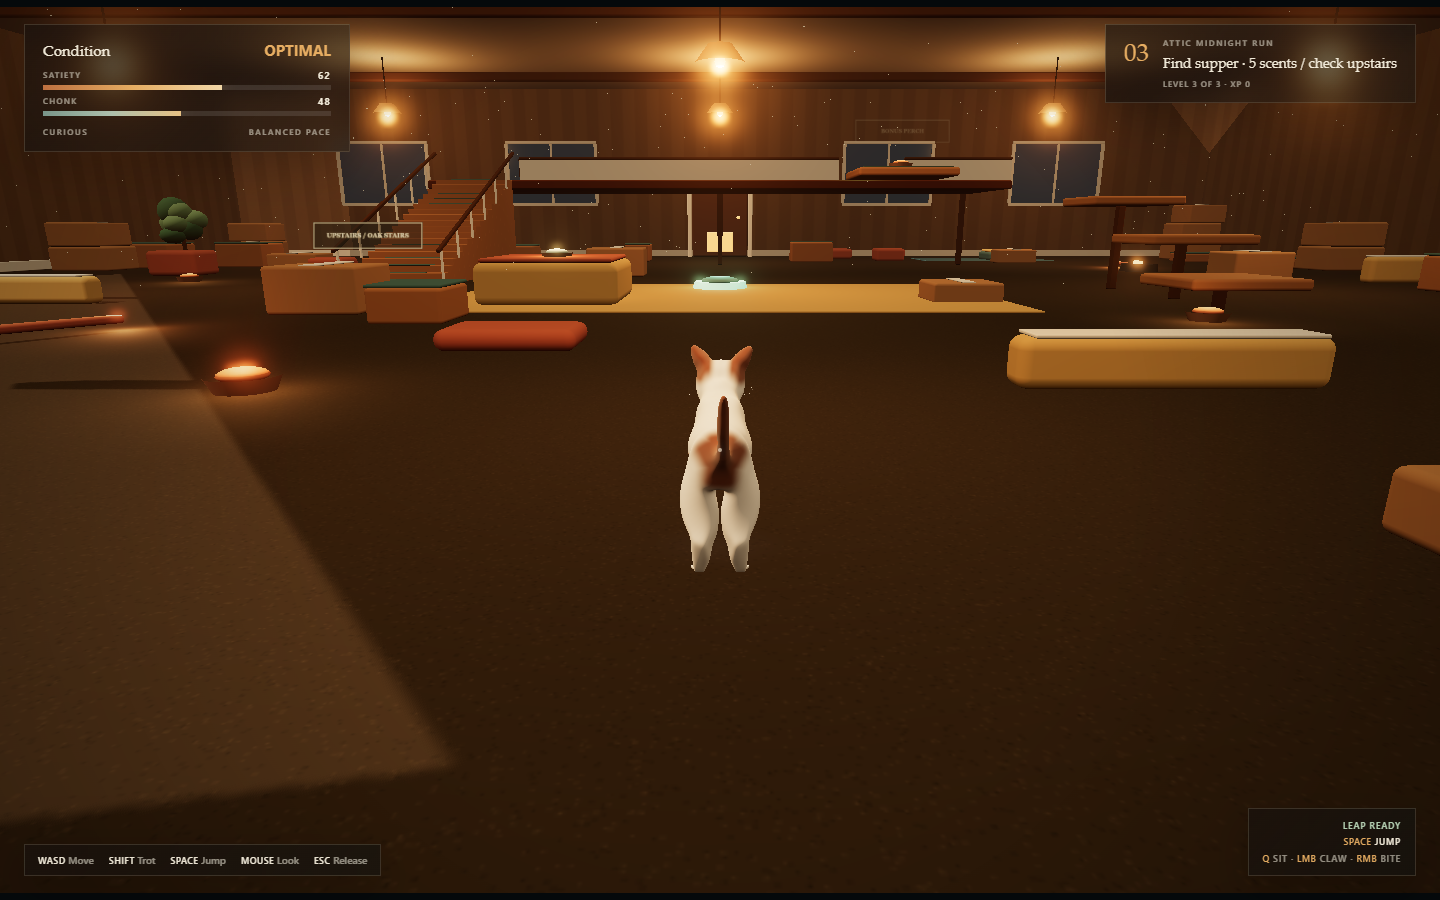
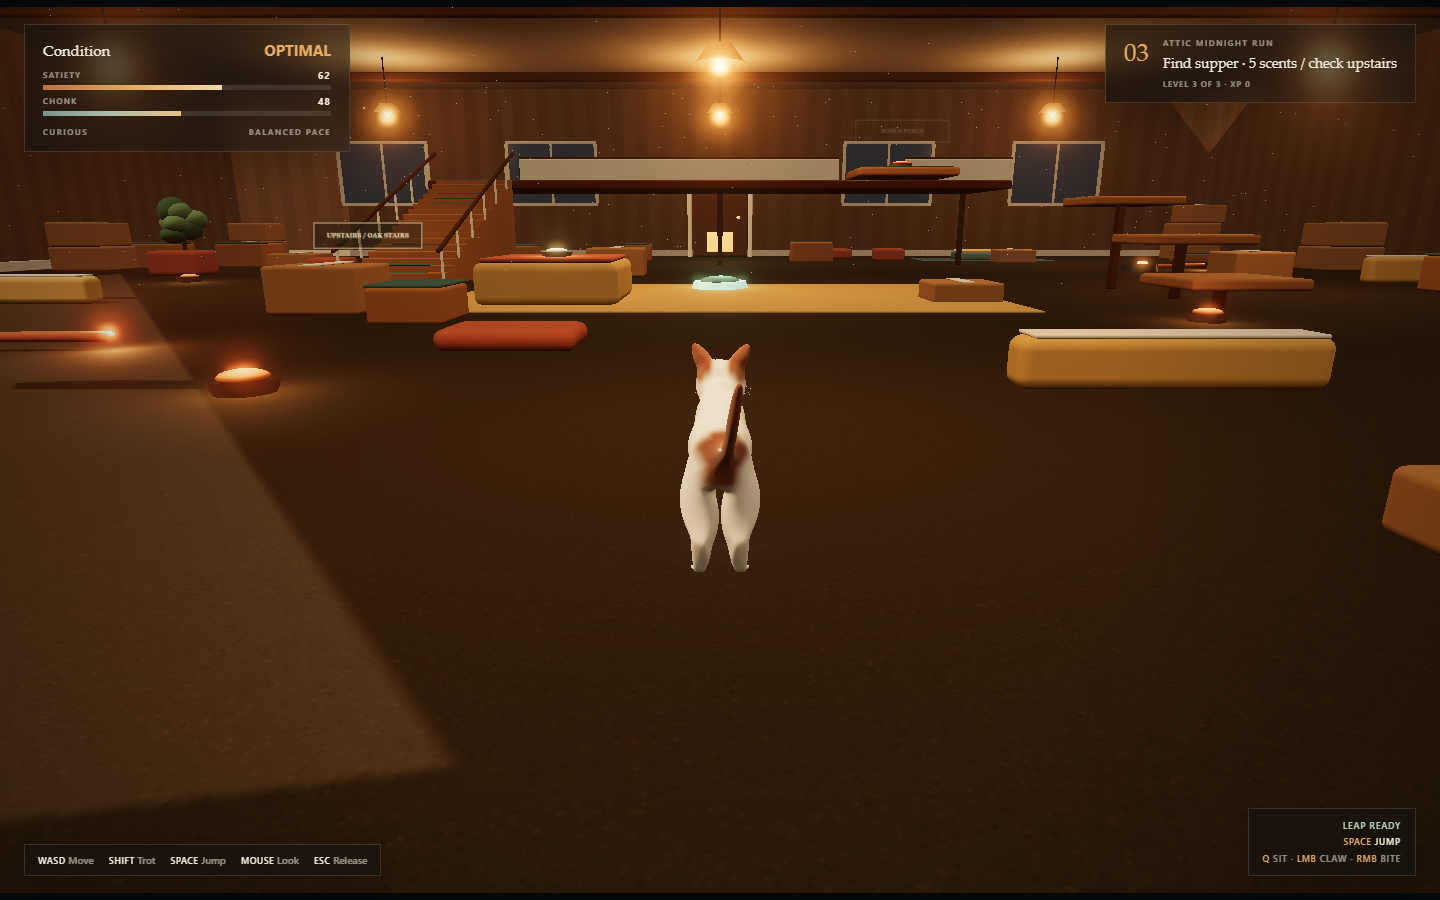
Fix mouse-look spikes and smooth camera collision recovery

diff --git a/tools/camera-controls-test.js b/tools/camera-controls-test.js
@@ -1,0 +1,185 @@
+const { chromium } = require("playwright");
+const { spawn } = require("child_process");
+const path = require("path");
+const assert = require("assert/strict");
+
+(async () => {
+  const root = path.resolve(__dirname, "..");
+  const remote = process.argv[2];
+  const server = remote ? null : spawn("python", ["-m", "http.server", "4179", "--bind", "127.0.0.1"], { cwd: root, stdio: "ignore", windowsHide: true });
+  let browser;
+  const errors = [];
+  try {
+    browser = await chromium.launch({ headless: true, executablePath: "C:\\Program Files (x86)\\Microsoft\\Edge\\Application\\msedge.exe" });
+    const page = await browser.newPage({ viewport: { width: 1440, height: 900 } });
+    page.on("pageerror", (error) => errors.push(error.message));
+    if (server) await new Promise((resolve) => setTimeout(resolve, 500));
+    await page.goto(remote || "http://127.0.0.1:4179", { waitUntil: "networkidle" });
+    await page.waitForFunction(() => window.__megaChonk?.state.ready, null, { timeout: 60000 });
+    const enter = await page.locator("#enter-game").boundingBox();
+    const unitChecks = await page.evaluate(async () => {
+      const { MouseLookController } = await import(new URL("camera-controls.js", location.href).href);
+      const fail = (message) => { throw new Error(message); };
+      const sums = [];
+      for (const fps of [30, 60, 144]) {
+        const look = new MouseLookController();
+        look.setLocked(true, 0);
+        look.addMovement(400, 300, 20);
+        if (look.consume(1 / fps).yaw !== 0) fail("Lock-entry cursor warp was accepted");
+        let yaw = 0;
+        let pitch = 0;
+        for (let frame = 0; frame < fps; frame += 1) {
+          look.addMovement(120 / fps, 30 / fps, 200 + frame * 1000 / fps);
+          const step = look.consume(1 / fps);
+          yaw += step.yaw;
+          pitch += step.pitch;
+          if (Math.abs(step.yaw) > 4.2 / fps + 1e-8) fail("Yaw rate limit exceeded");
+        }
+        for (let frame = 0; frame < fps; frame += 1) {
+          const step = look.consume(1 / fps);
+          yaw += step.yaw;
+          pitch += step.pitch;
+        }
+        if (Math.abs(yaw + 120 * 0.00145) > 1e-7 || Math.abs(pitch - 30 * 0.0011) > 1e-7) fail(`Mouse input depends on FPS: ${fps}`);
+        sums.push({ fps, yaw, pitch });
+      }
+      const look = new MouseLookController();
+      look.setLocked(true, 0);
+      look.addMovement(1, 0, 200);
+      for (const [x, y] of [[NaN, 0], [Infinity, 1], [1, -Infinity], [12000, -9000]]) look.addMovement(x, y, 201);
+      if (look.consume(1 / 60).yaw !== 0 || look.rejectedSamples !== 4) fail("Invalid mouse input was not rejected");
+      let burstYaw = 0;
+      for (let frame = 0; frame < 60; frame += 1) {
+        if (frame < 20) for (let event = 0; event < 1000; event += 1) look.addMovement(2, 1, 300 + frame * 16.67);
+        const step = look.consume(1 / 60);
+        if (Math.abs(step.yaw) > 4.2 / 60 + 1e-8 || Math.abs(step.pitch) > 2.4 / 60 + 1e-8) fail("Burst input exceeded turn-rate limits");
+        burstYaw += step.yaw;
+      }
+      if (Math.abs(look.consume(1 / 60).yaw) > 1e-7) fail("A mouse-input backlog continued spinning after release");
+      look.addMovement(30, 20, 2000);
+      look.setLocked(false, 2001);
+      if (look.consume(1 / 60).yaw !== 0) fail("Unlock did not clear queued input");
+      look.setLocked(true, 3000);
+      look.addMovement(200, 200, 3101);
+      if (look.consume(1 / 60).yaw !== 0) fail("Relock accepted the first cursor-warp sample");
+      return { frameRates: sums, invalidSamples: 4, burstYaw };
+    });
+    await page.click("#enter-game");
+    await page.waitForFunction(() => document.pointerLockElement?.id === "game" && !window.__megaChonk.state.transitioning);
+    const spike = await page.evaluate(() => {
+      const { state } = window.__megaChonk;
+      const before = state.yaw;
+      document.dispatchEvent(new MouseEvent("mousemove", { movementX: 12000, movementY: -9000 }));
+      return { before, after: state.yaw, pitch: state.pitch };
+    });
+    await page.waitForTimeout(300);
+    const afterSpike = await page.evaluate(() => window.__megaChonk.state.yaw);
+    assert.ok(Math.abs(afterSpike - spike.before) < 0.01, "An invalid mouse delta violently rotates the camera");
+
+    const dispatch = (x, y) => page.evaluate(({ x, y }) => {
+      document.dispatchEvent(new MouseEvent("mousemove", { movementX: x, movementY: y }));
+    }, { x, y });
+    await dispatch(1, 0);
+    await page.waitForTimeout(150);
+    const smallBefore = await page.evaluate(() => window.__megaChonk.cameraSnapshot());
+    await dispatch(4, 2);
+    await page.waitForTimeout(300);
+    const smallAfter = await page.evaluate(() => window.__megaChonk.cameraSnapshot());
+    assert.ok(Math.abs(smallAfter.yaw - smallBefore.yaw + 0.0058) < 0.0002, "Small horizontal mouse motion is lost or amplified");
+    assert.ok(Math.abs(smallAfter.pitch - smallBefore.pitch - 0.0022) < 0.0002, "Small vertical mouse motion is lost or amplified");
+
+    await page.mouse.move(enter.x + enter.width / 2 + 4, enter.y + enter.height / 2 + 2, { steps: 4 });
+    await page.waitForTimeout(300);
+    const native = await page.evaluate(() => window.__megaChonk.cameraSnapshot());
+    assert.ok(Math.abs(native.yaw - smallAfter.yaw) > 0.0001 && Math.abs(native.yaw - smallAfter.yaw) < 0.03, "Native pointer-locked mouse motion is not small and responsive");
+
+    const burst = await page.evaluate(async () => {
+      const game = window.__megaChonk;
+      const before = game.cameraSnapshot();
+      for (let event = 0; event < 1000; event += 1) document.dispatchEvent(new MouseEvent("mousemove", { movementX: 2, movementY: 1 }));
+      const frames = [before];
+      for (let frame = 0; frame < 30; frame += 1) {
+        await new Promise(requestAnimationFrame);
+        frames.push(game.cameraSnapshot());
+      }
+      return { totalYaw: frames.at(-1).yaw - before.yaw, maxStep: Math.max(...frames.slice(1).map((sample, index) => Math.abs(sample.yaw - frames[index].yaw))), tail: Math.abs(frames.at(-1).yaw - frames.at(-6).yaw) };
+    });
+    assert.ok(burst.maxStep <= 4.2 * 0.033 + 0.001 && Math.abs(burst.totalYaw) < 0.15 && burst.tail < 0.0001, "Event bursts cause a jump or leave queued camera spin");
+
+    const beforeBlur = await page.evaluate(() => {
+      const before = window.__megaChonk.state.yaw;
+      document.dispatchEvent(new MouseEvent("mousemove", { movementX: 30, movementY: 20 }));
+      window.dispatchEvent(new Event("blur"));
+      document.dispatchEvent(new MouseEvent("mousemove", { movementX: 100, movementY: 100 }));
+      return before;
+    });
+    await page.waitForTimeout(200);
+    assert.equal(await page.evaluate(() => window.__megaChonk.state.yaw), beforeBlur, "Blur leaves queued mouse motion or accepts background input");
+    await page.evaluate(() => {
+      window.dispatchEvent(new Event("focus"));
+      document.dispatchEvent(new MouseEvent("mousemove", { movementX: 400, movementY: 300 }));
+    });
+    await page.waitForTimeout(200);
+    assert.equal(await page.evaluate(() => window.__megaChonk.state.yaw), beforeBlur, "Focus recovery accepts a cursor warp");
+    await dispatch(4, 2);
+    await page.waitForTimeout(250);
+    assert.ok(Math.abs(await page.evaluate(() => window.__megaChonk.state.yaw) - beforeBlur + 0.0058) < 0.0002, "Mouse look fails to resume after focus recovery");
+
+    await page.evaluate(() => document.exitPointerLock());
+    await page.waitForFunction(() => document.pointerLockElement === null);
+    await page.waitForTimeout(150);
+    const unlocked = await page.evaluate(() => window.__megaChonk.state.yaw);
+    await dispatch(250, 100);
+    await page.waitForTimeout(150);
+    assert.equal(await page.evaluate(() => window.__megaChonk.state.yaw), unlocked, "Unlocked mouse movement rotates the camera");
+    for (let cycle = 0; cycle < 3; cycle += 1) {
+      await page.evaluate(() => document.addEventListener("pointerlockchange", () => {
+        if (document.pointerLockElement) document.dispatchEvent(new MouseEvent("mousemove", { movementX: 400, movementY: -300 }));
+      }, { once: true }));
+      await page.click("#game", { position: { x: 720, y: 450 } });
+      await page.waitForFunction(() => document.pointerLockElement?.id === "game");
+      await page.waitForTimeout(250);
+      assert.equal(await page.evaluate(() => window.__megaChonk.state.yaw), unlocked, "Capturing the mouse jumps to a different heading");
+      await page.evaluate(() => document.exitPointerLock());
+      await page.waitForFunction(() => document.pointerLockElement === null);
+    }
+
+    const collision = await page.evaluate(async () => {
+      const game = window.__megaChonk;
+      game.state.started = false;
+      game.regenerate(424242);
+      game.loadLevel(0);
+      game.character.root.position.set(-15.1, 0, 3.8);
+      game.state.pitch = 0.08;
+      const samples = [];
+      for (let index = 0; index <= 80; index += 1) {
+        game.state.yaw = -1.2 + index * 0.02;
+        await new Promise(requestAnimationFrame);
+        samples.push(game.cameraSnapshot());
+      }
+      let pair;
+      for (let index = 1; index < samples.length; index += 1) {
+        const a = samples[index - 1];
+        const b = samples[index];
+        if (Math.abs(a.desiredDistance - b.desiredDistance) > 0.6) { pair = a.desiredDistance < b.desiredDistance ? [a, b] : [b, a]; break; }
+      }
+      if (!pair) throw new Error("Collision test did not cross a furniture corner");
+      game.state.yaw = pair[0].yaw;
+      for (let frame = 0; frame < 60; frame += 1) await new Promise(requestAnimationFrame);
+      const distances = [game.cameraSnapshot().distance];
+      game.state.yaw = pair[1].yaw;
+      for (let frame = 0; frame < 60; frame += 1) {
+        await new Promise(requestAnimationFrame);
+        distances.push(game.cameraSnapshot().distance);
+      }
+      return { orbitChange: Math.abs(pair[1].yaw - pair[0].yaw), obstructionDistance: pair[0].desiredDistance, clearDistance: pair[1].desiredDistance, maxOutwardStep: Math.max(...distances.slice(1).map((distance, index) => distance - distances[index])), finalDistance: distances.at(-1) };
+    });
+    assert.ok(collision.maxOutwardStep < 0.33 && collision.finalDistance > collision.clearDistance - 0.15, "Camera snaps outward at a furniture corner or fails to recover");
+    console.log(JSON.stringify({ url: page.url(), unitChecks, spike, smallMotion: { yaw: smallAfter.yaw - smallBefore.yaw, pitch: smallAfter.pitch - smallBefore.pitch }, nativeMouseDelta: native.yaw - smallAfter.yaw, burst, focusRecovery: true, pointerLockCycles: 3, collision, errors }, null, 2));
+    assert.deepEqual(errors, []);
+    console.log("Camera controls passed");
+  } finally {
+    if (browser) await browser.close();
+    server?.kill();
+  }
+})().catch((error) => { console.error(error); process.exitCode = 1; });

diff --git a/game.js b/game.js
@@ -6,6 +6,7 @@ import { RenderPass } from "three/addons/postprocessing/RenderPass.js";
 import { UnrealBloomPass } from "three/addons/postprocessing/UnrealBloomPass.js";
 import { OutputPass } from "three/addons/postprocessing/OutputPass.js";
 import { footprint, generateCourse } from "./course-generator.js";
+import { MouseLookController } from "./camera-controls.js";
 
 const CAT_SCALE = 0.84;
 const CAT_BODY_HEIGHT = 0.76;
@@ -64,6 +65,8 @@ composer.addPass(new OutputPass());
 
 const clock = new THREE.Clock();
 const keys = new Set();
+const mouseLook = new MouseLookController();
+const cameraRig = { distance: null, desiredDistance: 3.35, obstructed: false };
 const colliders = [];
 const surfaces = [];
 const cameraOccluders = [];
@@ -1586,10 +1589,14 @@ function updateCamera(delta) {
   raycaster.set(temp.cameraTarget, temp.rayDirection);
   raycaster.far = desiredDistance;
   const hits = raycaster.intersectObjects(cameraOccluders, false);
-  if (hits.length) {
-    const safeDistance = Math.max(1.25, hits[0].distance - 0.24);
-    temp.cameraDesired.copy(temp.cameraTarget).addScaledVector(temp.rayDirection, safeDistance);
-  }
+  const safeDistance = hits.length ? Math.min(desiredDistance, Math.max(0.35, hits[0].distance - 0.24)) : desiredDistance;
+  cameraRig.desiredDistance = safeDistance;
+  cameraRig.obstructed = hits.length > 0;
+  const currentDistance = cameraRig.distance ?? safeDistance;
+  // Pull in promptly at walls, but ease back out when a corner clears the ray.
+  const response = safeDistance < currentDistance ? 18 : 3.5;
+  cameraRig.distance = THREE.MathUtils.damp(currentDistance, safeDistance, response, delta);
+  temp.cameraDesired.copy(temp.cameraTarget).addScaledVector(temp.rayDirection, cameraRig.distance);
 
   camera.position.lerp(temp.cameraDesired, 1 - Math.exp(-9.5 * delta));
   camera.lookAt(temp.cameraTarget);
@@ -1686,6 +1693,9 @@ function updateToast(delta) {
 function animate() {
   const delta = Math.min(clock.getDelta(), 0.033);
   const elapsed = clock.elapsedTime;
+  const look = mouseLook.consume(delta);
+  state.yaw += look.yaw;
+  state.pitch = THREE.MathUtils.clamp(state.pitch + look.pitch, 0.08, 0.62);
   let speed = 0;
   updateMovingPlatforms(elapsed);
   if (state.started) {
@@ -1716,16 +1726,25 @@ function setupInput() {
     if (["KeyW", "KeyA", "KeyS", "KeyD", "ArrowUp", "ArrowDown", "ArrowLeft", "ArrowRight", "Space"].includes(event.code)) event.preventDefault();
   });
   addEventListener("keyup", (event) => keys.delete(event.code));
-  addEventListener("blur", () => keys.clear());
+  addEventListener("blur", () => {
+    keys.clear();
+    mouseLook.setLocked(false);
+  });
+  const syncMouseLook = () => mouseLook.setLocked(document.pointerLockElement === canvas && document.hasFocus() && !document.hidden);
+  addEventListener("focus", syncMouseLook);
+  document.addEventListener("visibilitychange", () => {
+    if (document.hidden) keys.clear();
+    syncMouseLook();
+  });
 
   document.addEventListener("pointerlockchange", () => {
     state.pointerLocked = document.pointerLockElement === canvas;
+    syncMouseLook();
     if (state.started) ui.prompt.textContent = state.pointerLocked ? "" : "CLICK TO RESUME CAMERA";
   });
   document.addEventListener("mousemove", (event) => {
-    if (!state.pointerLocked) return;
-    state.yaw -= event.movementX * 0.00235;
-    state.pitch = THREE.MathUtils.clamp(state.pitch + event.movementY * 0.00175, 0.08, 0.62);
+    if (!state.started || !state.pointerLocked) return;
+    mouseLook.addMovement(event.movementX, event.movementY);
   });
   canvas.addEventListener("click", () => {
     if (state.started && document.pointerLockElement !== canvas) canvas.requestPointerLock?.();
@@ -1773,6 +1792,17 @@ addEventListener("resize", resize);
 window.__megaChonk = {
   state,
   character,
+  cameraSnapshot: () => ({
+    position: camera.position.toArray(),
+    target: temp.cameraTarget.toArray(),
+    quaternion: camera.quaternion.toArray(),
+    yaw: state.yaw,
+    pitch: state.pitch,
+    distance: cameraRig.distance,
+    desiredDistance: cameraRig.desiredDistance,
+    obstructed: cameraRig.obstructed,
+    rejectedMouseSamples: mouseLook.rejectedSamples,
+  }),
   start: () => ui.enter.click(),
   aimAt: (x, z) => {
     const dx = x - character.root.position.x;

diff --git a/camera-controls.js b/camera-controls.js
@@ -1,0 +1,53 @@
+const clamp = (value, minimum, maximum) => Math.max(minimum, Math.min(maximum, value));
+
+export class MouseLookController {
+  constructor() {
+    this.locked = false;
+    this.ignoreUntil = 0;
+    this.skipFirstMotion = false;
+    this.pendingYaw = this.pendingPitch = 0;
+    this.remainingYaw = this.remainingPitch = 0;
+    this.rejectedSamples = 0;
+  }
+
+  setLocked(locked, now = performance.now()) {
+    this.locked = locked;
+    this.ignoreUntil = now + 100;
+    this.skipFirstMotion = locked;
+    this.pendingYaw = this.pendingPitch = 0;
+    this.remainingYaw = this.remainingPitch = 0;
+  }
+
+  addMovement(x, y, now = performance.now()) {
+    if (!this.locked) return;
+    if (!Number.isFinite(x) || !Number.isFinite(y) || Math.abs(x) > 512 || Math.abs(y) > 512) {
+      this.rejectedSamples += 1;
+      return;
+    }
+    if (!x && !y) return;
+    // Pointer lock/focus changes may report a cursor warp as the first delta.
+    if (this.skipFirstMotion || now < this.ignoreUntil) {
+      this.skipFirstMotion = false;
+      return;
+    }
+    this.pendingYaw = clamp(this.pendingYaw - x * 0.00145, -0.4, 0.4);
+    this.pendingPitch = clamp(this.pendingPitch + y * 0.00110, -0.25, 0.25);
+  }
+
+  consume(delta) {
+    if (!this.locked || !Number.isFinite(delta) || delta <= 0) return { yaw: 0, pitch: 0 };
+    const dt = Math.min(delta, 0.05);
+    const yawBudget = 4.2 * dt;
+    const pitchBudget = 2.4 * dt;
+    // Drop excess input for this frame; never replay a large backlog later.
+    this.remainingYaw = clamp(this.remainingYaw + clamp(this.pendingYaw, -yawBudget, yawBudget), -0.168, 0.168);
+    this.remainingPitch = clamp(this.remainingPitch + clamp(this.pendingPitch, -pitchBudget, pitchBudget), -0.096, 0.096);
+    this.pendingYaw = this.pendingPitch = 0;
+    const response = 1 - Math.exp(-40 * dt);
+    const yaw = clamp(this.remainingYaw * response, -yawBudget, yawBudget);
+    const pitch = clamp(this.remainingPitch * response, -pitchBudget, pitchBudget);
+    this.remainingYaw -= yaw;
+    this.remainingPitch -= pitch;
+    return { yaw, pitch };
+  }
+}

diff --git a/docs/camera-controls-verification.md b/docs/camera-controls-verification.md
@@ -1,0 +1,32 @@
+# Mouse Look Fix
+
+Verified on 2026-10-16 in headless Microsoft Edge at 1440 x 900.
+
+## Reproduction
+
+The old mouse handler changed camera angles directly on each mouse event, without checking delta size or capture/focus transitions. A simulated pointer-lock spike of `(12000, -9000)` changed yaw from 0 to -28.2 radians in one event and clamped pitch to its lower limit.
+
+A separate furniture-corner scenario showed that a 0.02-radian orbit adjustment could change the requested follow distance from approximately 1.25 to 3.38 units. The old collision trace had no separate recovery damping.
+
+## Changes
+
+- Filter non-finite and implausibly large deltas before they reach the camera.
+- Discard initial cursor motion and briefly guard capture/focus transitions.
+- Accumulate input per rendered frame, apply bounded angular rates, and smooth the short residual without retaining a long input backlog.
+- Reduce default mouse sensitivity and clear pending input on unlock, blur, and visibility changes.
+- Ease the camera outward after an obstruction clears; permit closer collision distances instead of enforcing the previous 1.25-unit minimum through nearby furniture.
+
+## Regression Coverage
+
+`tools/camera-controls-test.js` reproduces the oversized-delta failure and verifies the fix, plus normal mouse look:
+
+- Four-pixel horizontal motion produces approximately -0.0058 radians of yaw; two vertical pixels produce +0.0022 radians of pitch.
+- Actual browser-generated pointer-locked mouse movement remains responsive and small.
+- Identical input totals produce matching rotation at simulated 30, 60, and 144 FPS.
+- NaN, infinite values, and oversized movement are rejected.
+- High-volume event bursts stay within angular-rate limits and stop without a lingering spin.
+- Blur clears queued motion; focus recovery rejects a cursor warp and then accepts normal movement.
+- Three real pointer-lock release/capture cycles retain the camera heading.
+- The furniture-corner camera transition recovers gradually, rather than jumping to full distance.
+
+The ordinary gameplay smoke test also checks that movement, jumping, action states, grooming interruption, satiety, and level generation still work. These are automated browser tests, not a guarantee of identical behavior with every mouse, driver, or browser.

diff --git a/README.md b/README.md
@@ -42,6 +42,8 @@ The build preserves relative URLs so modules and models work under `/MegaChonk/`
 - Click: recapture camera
 - `Esc`: release pointer lock
 
+Mouse look uses filtered relative input, frame-independent smoothing, and bounded turn speed. Cursor-warp samples on capture/focus changes are discarded; leaving the game window clears queued motion. The camera eases outward after clearing furniture rather than snapping to full follow distance.
+
 ## Core Loop
 
 Find every bowl in a room, then reach the glowing pet door. Complete Living Room Zoomies, Kitchen Counter Caper, and Attic Midnight Run to finish a run.
@@ -92,6 +94,8 @@ This runs in a separate process and does not alter an open Blender scene.
 `tools/visual-cat-test.js` captures four viewing angles and several animation poses, checks night-pupil colors and eye aperture size, samples deformed geometry for floor penetration, and reports frame timing.
 
 `tools/generation-test.js` checks 90 seeded layouts across all three rooms for reproducibility, obstacle counts, overlapping obstacles, protected corridors, and routes through the actual collision/hazard geometry to every ground-floor objective and the stairs.
+
+`tools/camera-controls-test.js [URL]` checks small/native mouse movements, invalid deltas, event bursts, focus recovery, repeated pointer-lock capture/release, 30/60/144 FPS input consistency, and camera recovery at a furniture corner. Omit the URL for the local game or pass the live URL to verify deployment.
 
 `tools/vertical-challenges-test.js` walks up and down stairs in all three rooms, compares normal and catnip-assisted long jumps, checks boost expiry and hunger/weight limits, and tests the gallery underside collision.
 
